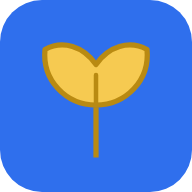
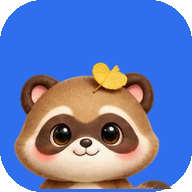
Use generated raccoon mascot and savings items
Dongguri is a raccoon with a golden ginkgo leaf: eight mood poses and
eight shop items generated with Higgsfield (GPT Image 2.5), cut into
transparent WebP. Hanbok are replaced by savings objects (piggy bank,
coin purse, goal flag, golden calculator). The app icon now uses the
mascot.

Claude-Session: https://claude.ai/code/session_012kaPCcFWP3YyTfMh2gJRqq

diff --git a/app/js/app.js b/app/js/app.js
@@ -51,14 +51,14 @@ function mood(st) {
 function charStage(st, extraClass = '') {
   const m = mood(st);
   const acc = state.equipped.acc && byId(state.equipped.acc);
-  const hb = state.equipped.hanbok && byId(state.equipped.hanbok);
+  const ob = state.equipped.obj && byId(state.equipped.obj);
   return `<section class="stage ${extraClass}" aria-label="돈구리">
     <div class="leaf-fall" id="leafFall"></div>
     <p class="bubble">${m.line}</p>
     <div class="char">
       <span class="pose">${mascot(m.mood, 140)}</span>
-      ${hb ? `<span class="wear hanbok" title="${esc(hb.name)}">${hb.art}<span class="sr">${esc(hb.name)} 착용 중</span></span>` : ''}
-      ${acc ? `<span class="wear acc" title="${esc(acc.name)}">${acc.art}<span class="sr">${esc(acc.name)} 착용 중</span></span>` : ''}
+      ${ob ? `<span class="wear obj" title="${esc(ob.name)}"><img src="${ob.img}" alt=""><span class="sr">${esc(ob.name)} 함께하는 중</span></span>` : ''}
+      ${acc ? `<span class="wear acc" title="${esc(acc.name)}"><img src="${acc.img}" alt=""><span class="sr">${esc(acc.name)} 착용 중</span></span>` : ''}
     </div>
   </section>`;
 }
@@ -286,16 +286,16 @@ function shopView() {
   const st = dayStatus(state, today);
   const items = SHOP.filter((i) => i.kind === view.shopKind);
   return `${charStage(st)}
-    <div class="row"><div class="seg" style="flex:1"><button data-act="shop-kind" data-k="acc" aria-pressed="${view.shopKind === 'acc'}">액세서리</button><button data-act="shop-kind" data-k="hanbok" aria-pressed="${view.shopKind === 'hanbok'}">한복</button></div></div>
+    <div class="row"><div class="seg" style="flex:1"><button data-act="shop-kind" data-k="acc" aria-pressed="${view.shopKind === 'acc'}">액세서리</button><button data-act="shop-kind" data-k="obj" aria-pressed="${view.shopKind === 'obj'}">저축 소품</button></div></div>
     <div class="closet">${items.map((i) => {
       const owned = state.inventory.includes(i.id);
       const worn = state.equipped[i.kind] === i.id;
       return `<button class="goods ${worn ? 'worn' : ''}" data-act="goods" data-id="${i.id}">
-        ${worn ? '<span class="badge tag" style="background:var(--blue);color:#fff">착용 중</span>' : owned ? '<span class="badge tag plain">보유</span>' : ''}
-        <span class="pic">${i.art}</span>
+        ${worn ? '<span class="badge tag" style="background:var(--blue);color:#fff">함께하는 중</span>' : owned ? '<span class="badge tag plain">보유</span>' : ''}
+        <span class="pic"><img src="${i.img}" alt=""></span>
         <b>${esc(i.name)}</b>
         <span class="small muted">${esc(i.line)}</span>
-        ${owned ? `<span class="small" style="font-weight:700;color:var(--blue)">${worn ? '눌러서 벗기' : '눌러서 입기'}</span>` : `<span class="price num">${leaf(16)} ${i.price}잎</span>`}
+        ${owned ? `<span class="small" style="font-weight:700;color:var(--blue)">${worn ? '눌러서 내려놓기' : '눌러서 함께하기'}</span>` : `<span class="price num">${leaf(16)} ${i.price}잎</span>`}
       </button>`;
     }).join('')}</div>
     <p class="small muted" style="text-align:center;margin:0">은행잎은 퀴즈 정답 3장, 기록 1장, 저축 2장, 무지출 하루 5장이에요.</p>`;
@@ -306,7 +306,7 @@ function buySheet() {
   const lack = i.price - state.leaves;
   return `<div class="grabber"></div>
     <div style="display:grid;justify-items:center;gap:8px;text-align:center">
-      <span class="pic" style="width:120px;height:120px;border-radius:24px;background:var(--hanji);display:grid;place-items:center">${i.art}</span>
+      <span class="pic" style="width:120px;height:120px;border-radius:24px;background:var(--hanji);display:grid;place-items:center"><img src="${i.img}" alt="" style="max-height:96px;width:auto"></span>
       <h3>${esc(i.name)}을(를) 구매할까요?</h3>
       <p class="muted" style="margin:0">${esc(i.line)}</p>
       <div class="preview" style="width:100%;text-align:left"><span class="row"><span>가격</span><span class="arrow num">${leaf(14)} ${i.price}잎</span></span>
@@ -314,7 +314,7 @@ function buySheet() {
       ${lack > 0 ? `<p class="err" style="margin:0">은행잎이 ${lack}장 부족해요. 오늘의 퀴즈로 모아 볼까요?</p>` : ''}
     </div>
     <div class="btn-row"><button class="btn ghost" data-act="close">다음에</button>
-    ${lack > 0 ? '<button class="btn primary" data-act="tab" data-tab="quiz">퀴즈 풀러 가기</button>' : `<button class="btn primary" data-act="buy" data-id="${i.id}">구매하고 입기</button>`}</div>`;
+    ${lack > 0 ? '<button class="btn primary" data-act="tab" data-tab="quiz">퀴즈 풀러 가기</button>' : `<button class="btn primary" data-act="buy" data-id="${i.id}">구매하기</button>`}</div>`;
 }
 
 // ───────────────────────── 설정 ─────────────────────────
@@ -369,7 +369,7 @@ function onbView() {
   const d = o.draft;
   if (o.step === 0) {
     return `<div class="welcome">
-      <div class="hero" id="heroLeaves"><span class="hero-mascot">${mascot('cheer', 200)}</span><span class="badge plain hero-note">캐릭터는 나중에 확정돼요 · 지금은 임시 그림</span></div>
+      <div class="hero" id="heroLeaves"><span class="hero-mascot">${mascot('cheer', 200)}</span></div>
       <div class="copy">
         <h1 class="brand">돈구리</h1>
         <p class="slogan">오늘 써도 되는 돈, 매일 한 숫자로.</p>
@@ -549,7 +549,7 @@ const ACT = {
     if (state.inventory.includes(i.id)) {
       state.equipped[i.kind] = state.equipped[i.kind] === i.id ? null : i.id;
       persist(); render();
-      toast(phone, state.equipped[i.kind] ? `${esc(i.name)}을(를) 입었어요` : `${esc(i.name)}을(를) 벗었어요`, 1600);
+      toast(phone, state.equipped[i.kind] ? `${esc(i.name)}을(를) 돈구리에게 줬어요` : `${esc(i.name)}을(를) 내려놓았어요`, 1600);
     } else open({ type: 'buy', id: i.id });
   },
   buy: (el) => {

diff --git a/app/js/mascot.js b/app/js/mascot.js
@@ -1,48 +1,9 @@
-// 임시 마스코트. 돈구리 캐릭터가 확정되면 이 파일만 바꾸면 된다.
-// mascot(mood)는 표정·자세가 다른 SVG 문자열을 돌려준다.
-export const MOODS = ['calm', 'joy', 'surprise', 'rest', 'cheer', 'walk', 'think'];
+// 돈구리(너구리) 마스코트. mascot(mood)는 상황별 그림의 <img> 태그를 돌려준다.
+// 그림은 assets/mascot/<mood>.webp 에 있고, 캐릭터를 바꿀 때는 그 파일들만 교체하면 된다.
+export const MOODS = ['calm', 'joy', 'surprise', 'rest', 'cheer', 'walk', 'think', 'front'];
 
-const INK = '#3A2A12';
-const BODY = '#FFE9A8';
-const EDGE = '#D9A93A';
-const LEAF = '#F6CA51';
-const LEAF_EDGE = '#B98A12';
-
-const eyes = {
-  calm: `<path d="M41 70q6 5 12 0M67 70q6 5 12 0" stroke="${INK}" stroke-width="3" fill="none" stroke-linecap="round"/>`,
-  joy: `<path d="M41 72q6-8 12 0M67 72q6-8 12 0" stroke="${INK}" stroke-width="3" fill="none" stroke-linecap="round"/>`,
-  surprise: `<circle cx="47" cy="69" r="6" fill="${INK}"/><circle cx="73" cy="69" r="6" fill="${INK}"/><circle cx="49" cy="67" r="2" fill="#fff"/><circle cx="75" cy="67" r="2" fill="#fff"/>`,
-  rest: `<path d="M41 71h12M67 71h12" stroke="${INK}" stroke-width="3" stroke-linecap="round"/>`,
-  open: `<circle cx="47" cy="70" r="4.5" fill="${INK}"/><circle cx="73" cy="70" r="4.5" fill="${INK}"/><circle cx="48.5" cy="68.5" r="1.5" fill="#fff"/><circle cx="74.5" cy="68.5" r="1.5" fill="#fff"/>`,
-  think: `<circle cx="47" cy="70" r="4.5" fill="${INK}"/><path d="M67 71q6 4 12 0" stroke="${INK}" stroke-width="3" fill="none" stroke-linecap="round"/><path d="M66 60l12-3" stroke="${INK}" stroke-width="2.5" stroke-linecap="round"/>`,
-};
-const mouths = {
-  smile: `<path d="M53 83q7 6 14 0" stroke="${INK}" stroke-width="3" fill="none" stroke-linecap="round"/>`,
-  open: `<path d="M51 81h18q-1 11-9 11t-9-11z" fill="#E5484D" stroke="${INK}" stroke-width="2.5" stroke-linejoin="round"/>`,
-  o: `<ellipse cx="60" cy="86" rx="5" ry="6" fill="#E5484D" stroke="${INK}" stroke-width="2.5"/>`,
-  flat: `<path d="M55 85h10" stroke="${INK}" stroke-width="3" stroke-linecap="round"/>`,
-};
-const arms = {
-  down: `<path d="M24 82q-6 8-2 14M96 82q6 8 2 14" stroke="${EDGE}" stroke-width="7" fill="none" stroke-linecap="round"/>`,
-  up: `<path d="M26 70q-12-10-10-24M94 70q12-10 10-24" stroke="${EDGE}" stroke-width="7" fill="none" stroke-linecap="round"/>`,
-  wave: `<path d="M24 82q-6 8-2 14M95 72q12-6 14-20" stroke="${EDGE}" stroke-width="7" fill="none" stroke-linecap="round"/>`,
-};
-
-const FACE = {
-  calm: ['calm', 'smile', 'down'],
-  joy: ['joy', 'open', 'down'],
-  surprise: ['surprise', 'o', 'down'],
-  rest: ['rest', 'flat', 'down'],
-  cheer: ['joy', 'open', 'up'],
-  walk: ['open', 'smile', 'wave'],
-  think: ['think', 'flat', 'down'],
-};
-
-const sprout = `<path d="M60 38V27" stroke="${LEAF_EDGE}" stroke-width="2.5" stroke-linecap="round"/>
-  <path d="M60 28C53 28 48 22 49 15C53 13 57 15 60 19C63 15 67 13 71 15C72 22 67 28 60 28Z" fill="${LEAF}" stroke="${LEAF_EDGE}" stroke-width="2" stroke-linejoin="round"/>`;
-
-export function mascot(mood = 'calm', size = 120, label = '돈구리(임시 그림)') {
-  const [e, m, a] = FACE[mood] || FACE.calm;
-  const zz = mood === 'rest' ? `<text x="88" y="40" font-size="14" font-weight="700" fill="${LEAF_EDGE}" font-family="sans-serif">z z</text>` : '';
-  return `<svg viewBox="0 0 120 120" width="${size}" height="${size}" role="img" aria-label="${label}"><ellipse cx="60" cy="112" rx="30" ry="4" fill="rgba(80,60,20,.12)"/>${arms[a]}<ellipse cx="60" cy="74" rx="38" ry="35" fill="${BODY}" stroke="${EDGE}" stroke-width="3"/>${sprout}<circle cx="38" cy="81" r="5" fill="#FFB4A2" opacity=".7"/><circle cx="82" cy="81" r="5" fill="#FFB4A2" opacity=".7"/>${eyes[e]}${mouths[m]}${zz}</svg>`;
+export function mascot(mood = 'calm', size = 120, label = '돈구리') {
+  const m = MOODS.includes(mood) ? mood : 'calm';
+  const alt = label ? ` alt="${label}"` : ' alt="" aria-hidden="true"';
+  return `<img class="mascot-img" src="assets/mascot/${m}.webp" width="${size}" height="${size}" style="width:auto;height:${size}px"${alt} decoding="async">`;
 }

diff --git a/app/js/shop-data.js b/app/js/shop-data.js
@@ -1,29 +1,15 @@
-// 상점 품목. 캐릭터가 확정되기 전까지 쓰는 임시 그림(SVG).
-const S = (body) => `<svg viewBox="0 0 64 64" width="64" height="64" aria-hidden="true">${body}</svg>`;
-const jacket = (main, trim) => S(`<path d="M22 10h20l12 8-5 12-5-3v27H20V27l-5 3-5-12z" fill="${main}" stroke="#3A2A12" stroke-width="2" stroke-linejoin="round"/><path d="M26 10l6 14 6-14" fill="none" stroke="${trim}" stroke-width="3" stroke-linejoin="round"/><path d="M32 24v30" stroke="${trim}" stroke-width="2"/>`);
-
-const ART = {
-  'acc-leaf': S('<path d="M32 56V36C19 36 9 25 10 12C18 8 27 11 32 19C37 11 46 8 54 12C55 25 45 36 32 36" fill="#F6CA51" stroke="#B98A12" stroke-width="2.5" stroke-linejoin="round"/>'),
-  'acc-norigae': S('<path d="M32 6v14" stroke="#B98A12" stroke-width="2.5"/><circle cx="32" cy="24" r="6" fill="#F6CA51" stroke="#B98A12" stroke-width="2"/><path d="M24 32h16l-2 24h-12z" fill="#2BEED4" stroke="#16776A" stroke-width="2" stroke-linejoin="round"/><path d="M28 36v18M32 36v18M36 36v18" stroke="#16776A" stroke-width="1.5"/>'),
-  'acc-mirror': S('<ellipse cx="32" cy="24" rx="14" ry="17" fill="#E8F0FE" stroke="#B98A12" stroke-width="3"/><path d="M26 18l6-5" stroke="#fff" stroke-width="3" stroke-linecap="round"/><path d="M30 41h4v15h-4z" fill="#B98A12"/>'),
-  'acc-gat': S('<ellipse cx="32" cy="42" rx="26" ry="7" fill="#2A2A2A" opacity=".85"/><path d="M22 41V22q0-6 10-6t10 6v19z" fill="#3A3A3A"/><path d="M20 44q12 14 24 0" fill="none" stroke="#B98A12" stroke-width="1.5"/>'),
-  'hanbok-walk': jacket('#F3EBDD', '#8B6A3E'),
-  'hanbok-train': jacket('#5B6B78', '#2A333B'),
-  'hanbok-festival': jacket('#F6CA51', '#E5484D'),
-  'hanbok-scholar': jacket('#26355E', '#B98A12'),
-};
-
-const item = (id, kind, name, price, line) => ({ id, kind, name, price, line, art: ART[id] });
+// 상점 품목: 돈구리가 지니는 액세서리 4개와 저축 소품 4개.
+const item = (id, kind, name, price, line) => ({ id, kind, name, price, line, img: `assets/items/${id}.webp` });
 
 export const SHOP = [
   item('acc-leaf', 'acc', '행운의 은행잎', 20, '첫 은행잎을 모은 기념이에요.'),
   item('acc-norigae', 'acc', '기억의 노리개', 45, '오늘 아낀 돈을 잊지 않게 해 줘요.'),
   item('acc-mirror', 'acc', '교감의 거울', 70, '내 소비를 비춰 보는 거울이에요.'),
   item('acc-gat', 'acc', '안식의 갓', 120, '목표를 향해 차분히 걷는 선비의 갓.'),
-  item('hanbok-walk', 'hanbok', '산책 한복', 30, '가볍게 숲을 거닐 때 입어요.'),
-  item('hanbok-train', 'hanbok', '수련 한복', 60, '꾸준히 기록하는 날을 위한 옷.'),
-  item('hanbok-festival', 'hanbok', '축제 한복', 90, '목표를 이룬 날 입는 고운 옷.'),
-  item('hanbok-scholar', 'hanbok', '학자 한복', 150, '경제 퀴즈 박사에게 어울려요.'),
+  item('obj-piggy', 'obj', '황금 돼지 저금통', 30, '아낀 돈이 쏙쏙 들어가는 저금통.'),
+  item('obj-purse', 'obj', '동전 지갑', 60, '용돈을 똑똑하게 나눠 담아요.'),
+  item('obj-flag', 'obj', '목표 깃발', 90, '목표를 이룬 날 꽂는 깃발이에요.'),
+  item('obj-calc', 'obj', '황금 계산기', 150, '경제 퀴즈 박사에게 어울려요.'),
 ];
 
 export const byId = (id) => SHOP.find((i) => i.id === id);

diff --git a/app/css/app.css b/app/css/app.css
@@ -57,7 +57,8 @@ img { max-width: 100%; display: block; }
 .topbar { display: flex; align-items: center; justify-content: space-between; padding: 14px 18px 6px; padding-top: max(14px, env(safe-area-inset-top, 0px)); }
 .who { display: flex; align-items: center; gap: 10px; }
 .avatar { width: 40px; height: 40px; border-radius: 50%; background: var(--hanji); border: 2px solid var(--leaf); overflow: hidden; display: grid; place-items: center; }
-.avatar svg { width: 100%; height: 100%; }
+.avatar { position: relative; }
+.avatar .mascot-img { position: absolute; left: 50%; top: 2px; transform: translateX(-50%); height: 66px !important; max-width: none; }
 .who b { display: block; font-size: 14px; }
 .who span { font-size: 12px; color: var(--sub); }
 .top-actions { display: flex; align-items: center; gap: 8px; }
@@ -89,9 +90,9 @@ img { max-width: 100%; display: block; }
 .char { position: relative; height: 150px; display: flex; align-items: end; justify-content: center; }
 .char .pose svg { display: block; }
 .char .wear { position: absolute; width: 40px; height: 40px; border-radius: 12px; background: rgba(255,255,255,.85); display: grid; place-items: center; box-shadow: 0 2px 6px rgba(0,0,0,.08); }
-.char .wear svg { width: 32px; height: 32px; }
+.char .wear img { max-width: 32px; max-height: 32px; }
 .char .wear.acc { right: -4px; top: 6px; }
-.char .wear.hanbok { left: -6px; top: 26px; }
+.char .wear.obj { left: -10px; bottom: 6px; }
 .leaf-fall { position: absolute; inset: 0; pointer-events: none; }
 
 /* 오늘 쓸 수 있는 돈 */
@@ -268,7 +269,7 @@ img { max-width: 100%; display: block; }
 .closet { display: grid; grid-template-columns: 1fr 1fr; gap: 10px; }
 .goods { background: var(--card); border-radius: 18px; padding: 12px; display: grid; gap: 8px; text-align: left; position: relative; }
 .goods .pic { height: 96px; border-radius: 12px; background: var(--hanji); display: grid; place-items: center; }
-.goods .pic svg { width: 72px; height: 72px; }
+.goods .pic img { max-height: 80px; width: auto; }
 .goods b { font-size: 14px; }
 .goods .price { display: inline-flex; align-items: center; gap: 4px; font-weight: 800; font-size: 14px; }
 .goods .tag { position: absolute; top: 18px; left: 18px; }

diff --git a/app/js/store.js b/app/js/store.js
@@ -17,7 +17,7 @@ export const blankState = () => ({
   quiz: { date: null, answered: {} },
   wrong: [],
   inventory: [],
-  equipped: { acc: null, hanbok: null },
+  equipped: { acc: null, obj: null },
   coachKey: '',
   chat: [],
 });
@@ -158,8 +158,8 @@ export function demoState(today) {
   }
   newDay(s, today);
   s.leaves = 42;
-  s.inventory = ['acc-leaf', 'hanbok-walk'];
-  s.equipped = { acc: 'acc-leaf', hanbok: null };
+  s.inventory = ['acc-leaf', 'obj-piggy'];
+  s.equipped = { acc: 'acc-leaf', obj: 'obj-piggy' };
   s.wrong = [7, 19];
   return s;
 }

diff --git a/docs/superpowers/specs/2026-10-26-dongguri-prototype-design.md b/docs/superpowers/specs/2026-10-26-dongguri-prototype-design.md
@@ -14,7 +14,7 @@
 
 ## 범위
 
-포함(Must 7): 온보딩 4단계, 하루 한도, 지출 기록 3탭, "N원 저축할게요", 일일 퀴즈 + 오답 노트, 은행잎 보상과 상점(액세서리 4 + 한복 4), AI 코치.
+포함(Must 7): 온보딩 4단계, 하루 한도, 지출 기록 3탭, "N원 저축할게요", 일일 퀴즈 + 오답 노트, 은행잎 보상과 상점(액세서리 4 + 저축 소품 4), AI 코치.
 
 제외: 예정 지출·캘린더, 알림 배너, 주간 리포트, 실제 계좌 연동, 서버, 로그인.
 
@@ -22,7 +22,8 @@
 
 | 항목 | 결정 |
 |---|---|
-| 캐릭터 | 미정(팀이 나중에 확정). 그때까지 `app/js/mascot.js`의 임시 마스코트(은행잎 새싹이 달린 둥근 도형, 표정 7가지)와 상점용 임시 SVG를 쓴다. 확정되면 이 파일과 `shop-data.js`의 그림만 바꾼다 |
+| 캐릭터 | 돈구리 = 너구리(머리에 금빛 은행잎). 표정·자세 8컷(`assets/mascot/*.webp`)을 Higgsfield(GPT Image 2.5)로 생성. 바꿀 때는 이 그림 파일만 교체 |
+| 상점 | 액세서리 4(은행잎·노리개·거울·갓) + 저축 소품 4(돼지 저금통·동전 지갑·목표 깃발·황금 계산기), `assets/items/*.webp` |
 | 보상 화폐 | 은행잎, 단위 "잎" |
 | 색 | 바탕 `#F2F4F7`, 카드 `#FFFFFF`, 글자 `#191F28`, 보조 `#6B7684`, 기본 파랑 `#2F6FED`, 개성 1 노란 주황 `#F6CA51`(위 글자 `#2A1A08`), 개성 2 청록 `#2BEED4`(글자용 진한 색 `#16776A`) |
 | 하단 탭 | 홈 · 퀴즈 · 코치 · 상점 (설정은 상단 버튼) |
@@ -44,7 +45,9 @@ app/
   js/coach.js         Claude API 호출 + 키 없을 때 규칙 기반 답변
   js/ui.js            작은 DOM 도우미, 토스트, 시트(모달)
   js/app.js           화면 렌더링과 이벤트
-  js/mascot.js        임시 마스코트 그림(캐릭터 확정 시 교체)
+  js/mascot.js        상황별 마스코트 그림 선택
+  assets/mascot/      너구리 표정·자세 8컷
+  assets/items/       상점 물건 8개
 tests/budget.test.mjs
 ```
 

diff --git a/README.md b/README.md
@@ -23,8 +23,8 @@ node tests/e2e/walkthrough.mjs http://localhost:8080/ shots   # 화면 스크린
 | `app/js/store.js` | 기기 저장, 날짜 넘김 처리(무지출 보상·주기 저축·남은 돈 이월), 시연 데이터 |
 | `app/js/coach.js` | 코치 답변. 계산은 앱이 하고 Claude는 설명만 함. 키가 없으면 규칙 기반 답변 |
 | `app/js/app.js` | 화면과 동작 |
-| `app/js/quiz-data.js`, `shop-data.js` | 퀴즈 30문항, 상점 8개 |
-| `app/js/mascot.js` | 임시 마스코트 그림. 캐릭터가 정해지면 이 파일(와 `shop-data.js`의 그림)만 바꾸면 돼요 |
+| `app/js/quiz-data.js`, `shop-data.js` | 퀴즈 30문항, 상점 8개(액세서리 4 + 저축 소품 4) |
+| `app/assets/mascot/`, `app/assets/items/` | 너구리 돈구리 8컷과 상점 물건 8개 (Higgsfield로 생성). 그림을 바꿀 때는 같은 이름의 파일만 교체하면 돼요 |
 
 ## 시연 팁
 
